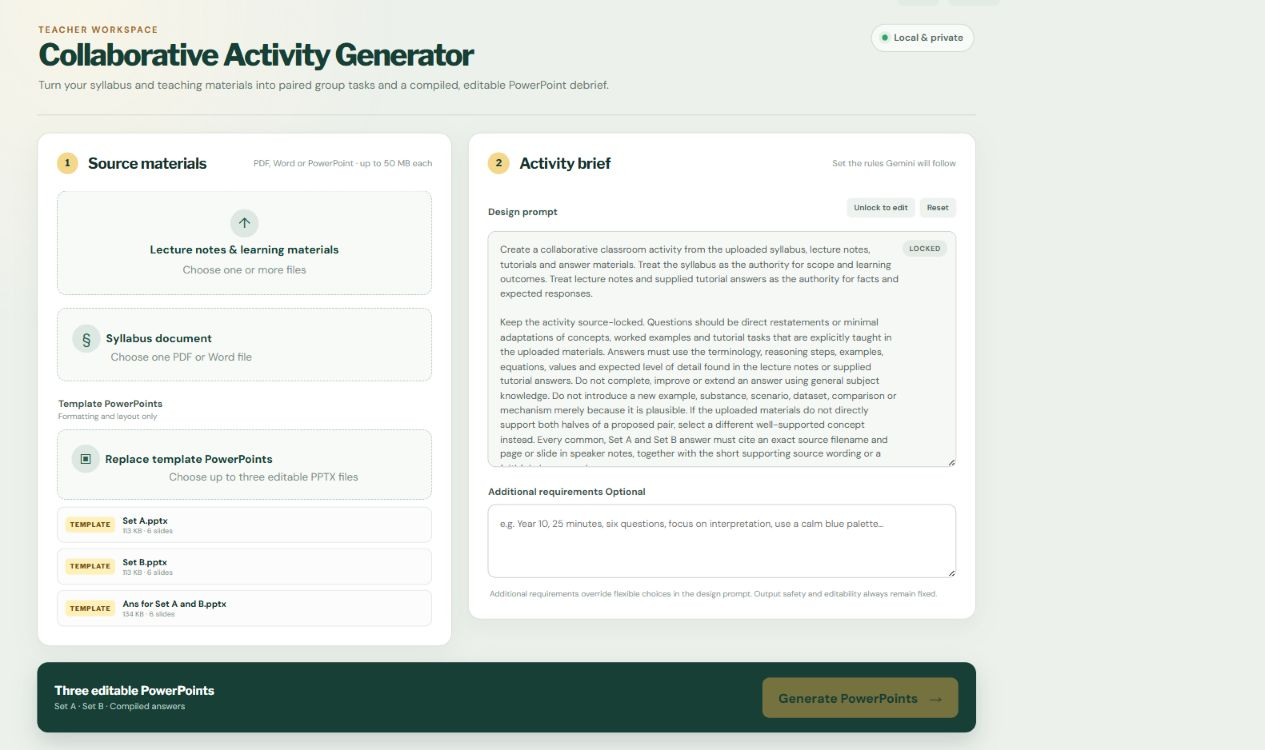
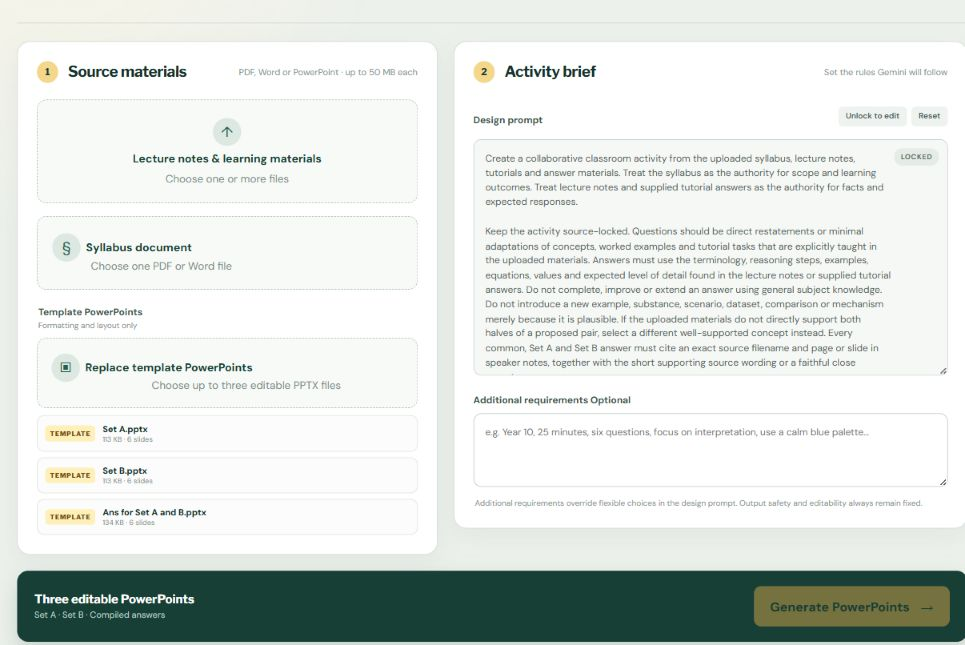
Refine guide labels and crop

diff --git a/src/styles.css b/src/styles.css
@@ -99,22 +99,20 @@ label { display: block; color: #3c554d; font-weight: 700; font-size: 12px; margi
 .auth-message { margin: 16px 0 0; padding: 10px 12px; border-radius: 8px; color: #5c4a24; background: #fff6dc; font-size: 12px; }
 .auth-setup code { color: #7d4c17; font-size: 11px; }
 .guide-backdrop { position: fixed; z-index: 1000; inset: 0; display: grid; place-items: center; padding: 22px; background: #102c25b8; backdrop-filter: blur(5px); }
-.guide-modal { width: min(1050px, 96vw, calc((94vh - 145px) * 1.687)); max-height: 94vh; overflow: auto; padding: 22px; border: 1px solid #d7dfda; border-radius: 18px; background: #fff; box-shadow: 0 30px 90px #0a211b66; }
+.guide-modal { width: min(1050px, 96vw, calc((94vh - 205px) * 1.496)); max-height: 94vh; overflow: auto; padding: 22px; border: 1px solid #d7dfda; border-radius: 18px; background: #fff; box-shadow: 0 30px 90px #0a211b66; }
 .guide-heading { display: flex; align-items: start; justify-content: space-between; gap: 20px; margin-bottom: 15px; }
 .guide-heading h2 { margin: 0; font: 700 clamp(19px, 2.1vw, 27px) 'Libre Franklin'; color: #173f36; }
 .guide-close { display: grid; place-items: center; flex: 0 0 auto; width: 35px; height: 35px; border: 0; border-radius: 50%; color: #486159; background: #edf2ef; font-size: 24px; line-height: 1; }
+.guide-legend { display: grid; grid-template-columns: repeat(3, 1fr); gap: 8px; margin-bottom: 12px; }
+.guide-legend > div { display: flex; align-items: center; gap: 7px; min-width: 0; padding: 7px 9px; border-radius: 9px; color: #7e211b; background: #fff1ef; font-size: clamp(10px, 1.15vw, 14px); font-weight: 800; }
+.guide-legend strong { display: grid; place-items: center; flex: 0 0 auto; width: 24px; height: 24px; border-radius: 50%; color: #fff; background: #d52d22; font: 800 12px 'Libre Franklin'; }
 .guide-visual { position: relative; overflow: hidden; border: 1px solid #d8e0db; border-radius: 12px; background: #edf1ec; }
 .guide-visual img { display: block; width: 100%; height: auto; }
 .guide-focus { position: absolute; border: clamp(3px, .45vw, 7px) solid #e1281d; border-radius: 3px; pointer-events: none; }
-.guide-focus-one { left: 4.25%; top: 24%; width: 30.1%; height: 14.5%; }
-.guide-focus-two { left: 4.25%; top: 39.8%; width: 30.1%; height: 10.5%; }
-.guide-focus-three { left: 60%; top: 89.3%; width: 16.2%; height: 6.7%; }
-.guide-callout { position: absolute; display: flex; align-items: center; gap: 7px; padding: 6px 10px 6px 6px; border-radius: 999px; color: #fff; background: #d52d22; box-shadow: 0 3px 10px #67120d59; font-size: clamp(10px, 1.2vw, 15px); font-weight: 800; white-space: nowrap; }
-.guide-callout strong { display: grid; place-items: center; width: 25px; height: 25px; border-radius: 50%; color: #a61f17; background: #fff; font: 800 13px 'Libre Franklin'; }
-.guide-callout-one { left: 4%; top: 19.6%; }
-.guide-callout-two { left: 4%; top: 35.4%; }
-.guide-callout-three { left: 59%; top: 84.9%; }
+.guide-focus-one { left: 3.2%; top: 10.5%; width: 39.4%; height: 16.8%; }
+.guide-focus-two { left: 3.2%; top: 28.8%; width: 39.4%; height: 12.3%; }
+.guide-focus-three { left: 76.2%; top: 86.5%; width: 21.2%; height: 7.8%; }
 .guide-done { display: block; min-width: 130px; margin: 16px 0 0 auto; border: 0; border-radius: 9px; padding: 11px 18px; color: #fff; background: #173f36; font-weight: 800; }
 @media (max-width: 900px) { .app-shell { padding: 25px 18px 40px; } .content-grid { grid-template-columns: 1fr; } .masthead { grid-template-columns: 1fr; } .local-badge { justify-self: start; } .downloads { grid-template-columns: repeat(2, 1fr); } .stage-list { grid-template-columns: repeat(4, 1fr); } }
-@media (max-width: 600px) { .masthead { align-items: start; } .section-heading { align-items: flex-start; flex-direction: column; } .generate-bar { align-items: stretch; flex-direction: column; } .generate { width: 100%; min-width: 0; } .file-card { grid-template-columns: auto minmax(0, 1fr) auto; } .file-card select { grid-column: 2; } .guide-backdrop { padding: 10px; } .guide-modal { padding: 14px; } .guide-callout { padding: 4px 7px 4px 4px; gap: 4px; } .guide-callout strong { width: 20px; height: 20px; font-size: 10px; } }
+@media (max-width: 600px) { .masthead { align-items: start; } .section-heading { align-items: flex-start; flex-direction: column; } .generate-bar { align-items: stretch; flex-direction: column; } .generate { width: 100%; min-width: 0; } .file-card { grid-template-columns: auto minmax(0, 1fr) auto; } .file-card select { grid-column: 2; } .guide-backdrop { padding: 10px; } .guide-modal { padding: 14px; } .guide-legend { grid-template-columns: 1fr; } }
 @media (prefers-reduced-motion: reduce) { * { scroll-behavior: auto !important; transition: none !important; } }

diff --git a/src/AuthGate.tsx b/src/AuthGate.tsx
@@ -14,14 +14,16 @@ function GuideModal({ onClose }: { onClose: () => void }) {
   return <div className="guide-backdrop" role="presentation" onMouseDown={(event) => { if (event.target === event.currentTarget) onClose(); }}>
     <section className="guide-modal" role="dialog" aria-modal="true" aria-labelledby="guide-title">
       <div className="guide-heading"><div><p className="eyebrow">Quick guide</p><h2 id="guide-title">Create your PowerPoints in 3 steps</h2></div><button type="button" className="guide-close" aria-label="Close guide" onClick={onClose}>×</button></div>
+      <div className="guide-legend" aria-label="Guide steps">
+        <div><strong>1</strong><span>Upload lecture materials</span></div>
+        <div><strong>2</strong><span>Upload syllabus</span></div>
+        <div><strong>3</strong><span>Generate PowerPoints</span></div>
+      </div>
       <div className="guide-visual">
         <img src="/collaborative-activity-user-guide.png" alt="Collaborative Activity Generator upload and generate areas" />
         <span className="guide-focus guide-focus-one" />
         <span className="guide-focus guide-focus-two" />
         <span className="guide-focus guide-focus-three" />
-        <div className="guide-callout guide-callout-one"><strong>1</strong><span>Upload lecture materials</span></div>
-        <div className="guide-callout guide-callout-two"><strong>2</strong><span>Upload syllabus</span></div>
-        <div className="guide-callout guide-callout-three"><strong>3</strong><span>Generate PowerPoints</span></div>
       </div>
       <button type="button" className="guide-done" onClick={onClose}>Got it</button>
     </section>
